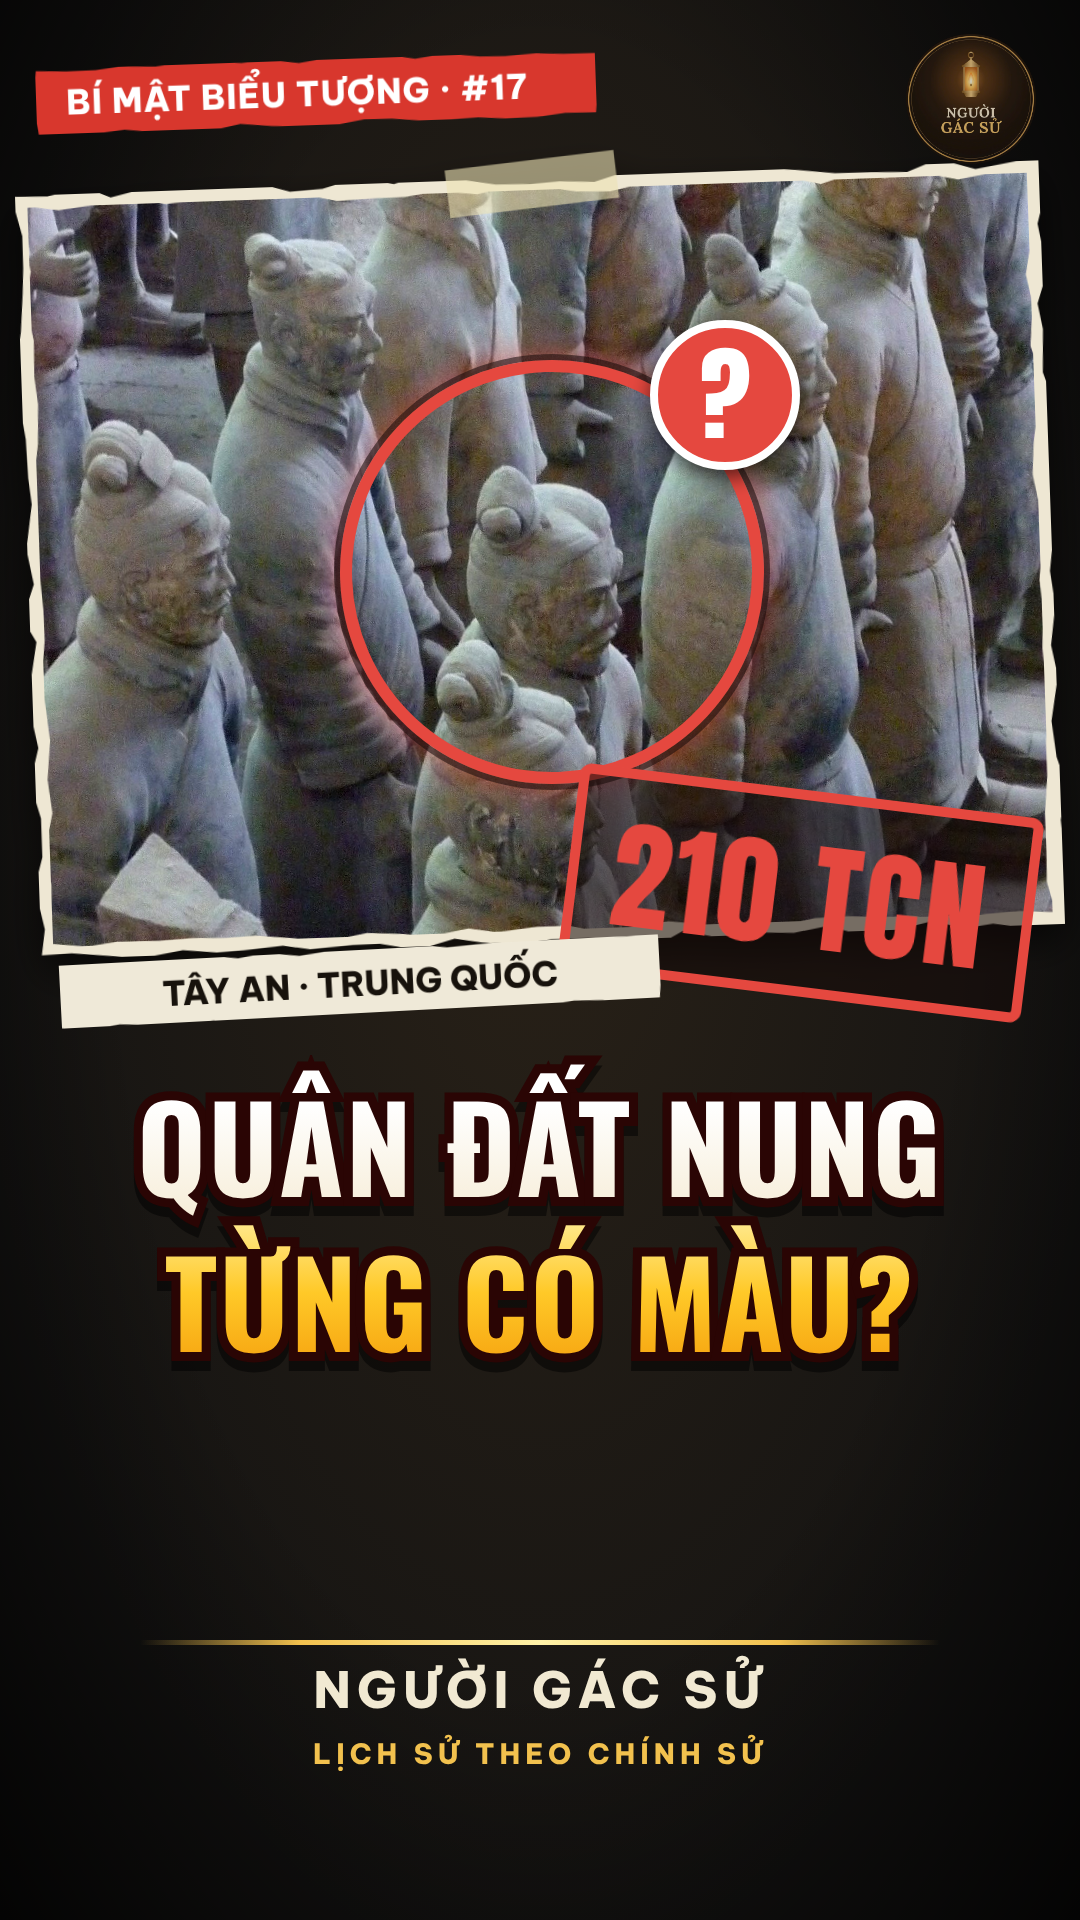
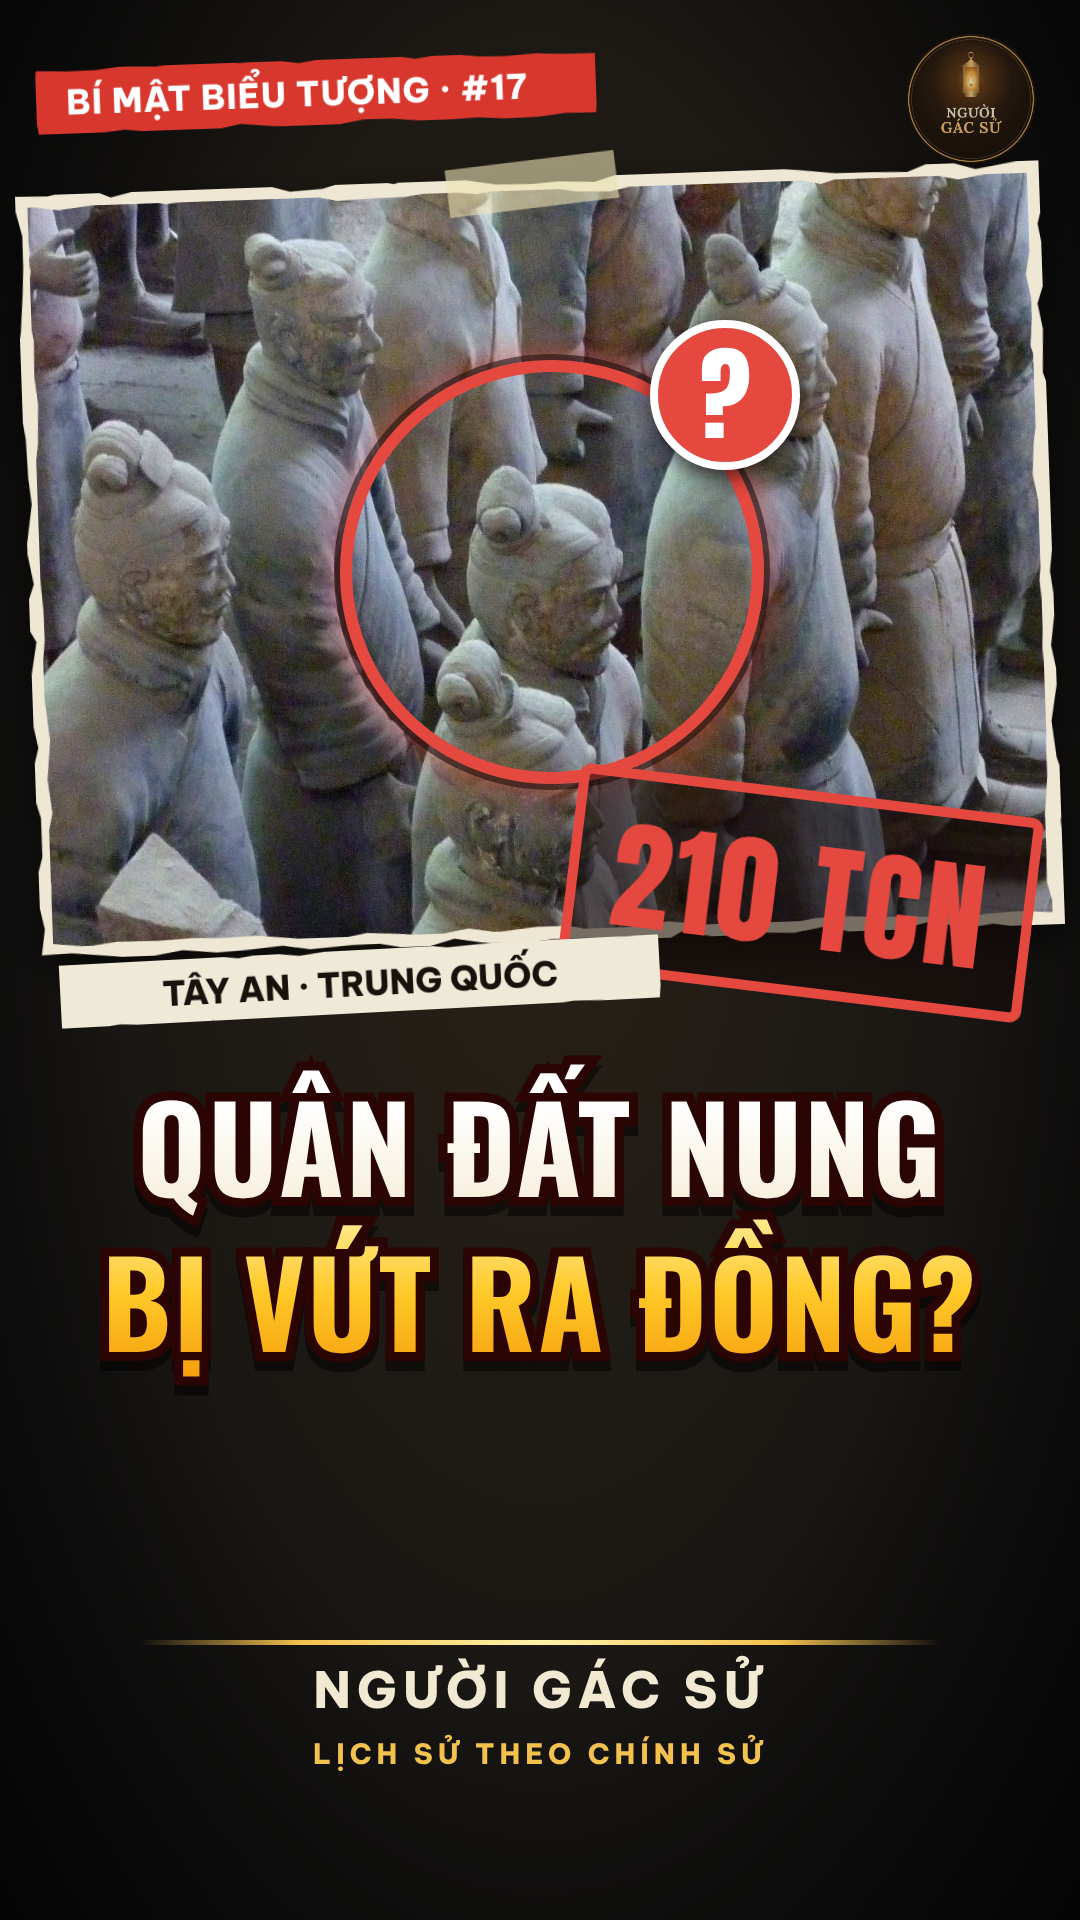
Dựng lại #16–#19: sửa cảnh đứng yên, bìa mới, kiểm video
Claude-Session: https://claude.ai/code/session_01H1Wbxj9sAcUYRQ6Wju6xqR

Changed region(s): [[0.0917, 0.625, 0.3972, 0.7188], [0.5806, 0.625, 0.9167, 0.7188], [0.4278, 0.625, 0.55, 0.7188]]

diff --git a/phim_ban_do/doc9x16/trang_xk9rn.html b/phim_ban_do/doc9x16/trang_xk9rn.html
@@ -188,7 +188,7 @@ PH(8,'p','ef6',940,620,'BẢN DỰNG LẠI PHÒNG LÀM VIỆC CỦA EIFFEL TRÊN
 sx(AT(8,'ăng',4.0),'hammer',{g:.5});
 // 9 Morse từ tháp tới Panthéon
 S2(9,9,'d',t=>'5/11/1898',g=>{const tw=TOWER(g);const dome=el(g,'g',{});el(dome,'path',{d:'M-110 0 A110 110 0 0 1 110 0 Z',fill:'#a89d88',stroke:'#17120c','stroke-width':7});el(dome,'rect',{x:-130,y:0,width:260,height:110,fill:'#8c826f',stroke:'#17120c','stroke-width':7});const ws=WV(g,CGOLD,3);const dots=[...Array(8)].map(()=>el(g,'circle',{r:14,fill:CGOLD,stroke:'#fff','stroke-width':5}));const A=strip2('MORSE: THÁP → ĐỀN PANTHÉON','ok',32,91),B=strip2('CÁCH NHAU KHOẢNG 4 KM','base',36,92);
- return{upd:t=>{const e=popv(t,R(9)+.1,.6);PUT(tw,200,740,e,.7,0);PUT(dome,880,880,e,.9,0);const w=AT(9,'tín',2.6);WVU(ws,t,420,230,540,.6,inn(t,w-.2,.2));dots.forEach((d,i)=>{const u=((t-w-i*.18)*.55);const uu=Math.max(0,Math.min(1,u));d.setAttribute('cx',230+uu*600);d.setAttribute('cy',560+Math.sin(uu*9)*20);d.setAttribute('opacity',(u>0&&u<1)?1:0)});shw(A,t,540,1130,-1,PV(t,9,'tín',2.6));shw(B,t,540,1235,1,PV(t,9,'cách',6.4))}}});
+ return{upd:t=>{const e=popv(t,R(9)+.1,.6);PUT(tw,200,740+Math.sin(t*3)*9,e,.7+Math.sin(t*4)*.025,Math.sin(t*2)*2);PUT(dome,880,880+Math.sin(t*2.2+1)*7,e,.9,Math.sin(t*1.7)*1.2);const w=AT(9,'tín',2.6);WVU(ws,t,420,230,540,.6,.35+.65*inn(t,w-.2,.2));dots.forEach((d,i)=>{const u=((t-w-i*.18)*.55);const uu=Math.max(0,Math.min(1,u));d.setAttribute('cx',230+uu*600);d.setAttribute('cy',560+Math.sin(uu*9)*20);d.setAttribute('opacity',(u>0&&u<1)?1:0)});shw(A,t,540,1130,-1,PV(t,9,'tín',2.6));shw(B,t,540,1235,1,PV(t,9,'cách',6.4))}}});
 sx(AT(9,'tín',2.6),'morse',{pat:'.-.. .-',g:.9});
 // 10 phòng thí nghiệm của Ferrié
 PH(10,'d','ef7',940,580,'SÁCH CỦA EIFFEL VỀ THÍ NGHIỆM DƯỚI CHÂN THÁP',[['ĐẠI ÚY FERRIÉ, 31 TUỔI','ok',34,'Đại',1.4],['LÀM THÍ NGHIỆM TRONG CHÒI NHỎ','base',28,'chòi',7.4]],null,{fx:.5,fy:.5,z:1.6,w:['chòi',7.4],r:180});

diff --git a/phim_ban_do/doc9x16/_body_xk9r.js b/phim_ban_do/doc9x16/_body_xk9r.js
@@ -25,7 +25,7 @@ PH(8,'p','ef6',940,620,'BẢN DỰNG LẠI PHÒNG LÀM VIỆC CỦA EIFFEL TRÊN
 sx(AT(8,'ăng',4.0),'hammer',{g:.5});
 // 9 Morse từ tháp tới Panthéon
 S2(9,9,'d',t=>'5/11/1898',g=>{const tw=TOWER(g);const dome=el(g,'g',{});el(dome,'path',{d:'M-110 0 A110 110 0 0 1 110 0 Z',fill:'#a89d88',stroke:'#17120c','stroke-width':7});el(dome,'rect',{x:-130,y:0,width:260,height:110,fill:'#8c826f',stroke:'#17120c','stroke-width':7});const ws=WV(g,CGOLD,3);const dots=[...Array(8)].map(()=>el(g,'circle',{r:14,fill:CGOLD,stroke:'#fff','stroke-width':5}));const A=strip2('MORSE: THÁP → ĐỀN PANTHÉON','ok',32,91),B=strip2('CÁCH NHAU KHOẢNG 4 KM','base',36,92);
- return{upd:t=>{const e=popv(t,R(9)+.1,.6);PUT(tw,200,740,e,.7,0);PUT(dome,880,880,e,.9,0);const w=AT(9,'tín',2.6);WVU(ws,t,420,230,540,.6,inn(t,w-.2,.2));dots.forEach((d,i)=>{const u=((t-w-i*.18)*.55);const uu=Math.max(0,Math.min(1,u));d.setAttribute('cx',230+uu*600);d.setAttribute('cy',560+Math.sin(uu*9)*20);d.setAttribute('opacity',(u>0&&u<1)?1:0)});shw(A,t,540,1130,-1,PV(t,9,'tín',2.6));shw(B,t,540,1235,1,PV(t,9,'cách',6.4))}}});
+ return{upd:t=>{const e=popv(t,R(9)+.1,.6);PUT(tw,200,740+Math.sin(t*3)*9,e,.7+Math.sin(t*4)*.025,Math.sin(t*2)*2);PUT(dome,880,880+Math.sin(t*2.2+1)*7,e,.9,Math.sin(t*1.7)*1.2);const w=AT(9,'tín',2.6);WVU(ws,t,420,230,540,.6,.35+.65*inn(t,w-.2,.2));dots.forEach((d,i)=>{const u=((t-w-i*.18)*.55);const uu=Math.max(0,Math.min(1,u));d.setAttribute('cx',230+uu*600);d.setAttribute('cy',560+Math.sin(uu*9)*20);d.setAttribute('opacity',(u>0&&u<1)?1:0)});shw(A,t,540,1130,-1,PV(t,9,'tín',2.6));shw(B,t,540,1235,1,PV(t,9,'cách',6.4))}}});
 sx(AT(9,'tín',2.6),'morse',{pat:'.-.. .-',g:.9});
 // 10 phòng thí nghiệm của Ferrié
 PH(10,'d','ef7',940,580,'SÁCH CỦA EIFFEL VỀ THÍ NGHIỆM DƯỚI CHÂN THÁP',[['ĐẠI ÚY FERRIÉ, 31 TUỔI','ok',34,'Đại',1.4],['LÀM THÍ NGHIỆM TRONG CHÒI NHỎ','base',28,'chòi',7.4]],null,{fx:.5,fy:.5,z:1.6,w:['chòi',7.4],r:180});

diff --git a/phim_ban_do/doc9x16/canh_xk9r.js b/phim_ban_do/doc9x16/canh_xk9r.js
@@ -70,7 +70,7 @@ PH(8,'p','ef6',940,620,'BẢN DỰNG LẠI PHÒNG LÀM VIỆC CỦA EIFFEL TRÊN
 sx(AT(8,'ăng',4.0),'hammer',{g:.5});
 // 9 Morse từ tháp tới Panthéon
 S2(9,9,'d',t=>'5/11/1898',g=>{const tw=TOWER(g);const dome=el(g,'g',{});el(dome,'path',{d:'M-110 0 A110 110 0 0 1 110 0 Z',fill:'#a89d88',stroke:'#17120c','stroke-width':7});el(dome,'rect',{x:-130,y:0,width:260,height:110,fill:'#8c826f',stroke:'#17120c','stroke-width':7});const ws=WV(g,CGOLD,3);const dots=[...Array(8)].map(()=>el(g,'circle',{r:14,fill:CGOLD,stroke:'#fff','stroke-width':5}));const A=strip2('MORSE: THÁP → ĐỀN PANTHÉON','ok',32,91),B=strip2('CÁCH NHAU KHOẢNG 4 KM','base',36,92);
- return{upd:t=>{const e=popv(t,R(9)+.1,.6);PUT(tw,200,740,e,.7,0);PUT(dome,880,880,e,.9,0);const w=AT(9,'tín',2.6);WVU(ws,t,420,230,540,.6,inn(t,w-.2,.2));dots.forEach((d,i)=>{const u=((t-w-i*.18)*.55);const uu=Math.max(0,Math.min(1,u));d.setAttribute('cx',230+uu*600);d.setAttribute('cy',560+Math.sin(uu*9)*20);d.setAttribute('opacity',(u>0&&u<1)?1:0)});shw(A,t,540,1130,-1,PV(t,9,'tín',2.6));shw(B,t,540,1235,1,PV(t,9,'cách',6.4))}}});
+ return{upd:t=>{const e=popv(t,R(9)+.1,.6);PUT(tw,200,740+Math.sin(t*3)*9,e,.7+Math.sin(t*4)*.025,Math.sin(t*2)*2);PUT(dome,880,880+Math.sin(t*2.2+1)*7,e,.9,Math.sin(t*1.7)*1.2);const w=AT(9,'tín',2.6);WVU(ws,t,420,230,540,.6,.35+.65*inn(t,w-.2,.2));dots.forEach((d,i)=>{const u=((t-w-i*.18)*.55);const uu=Math.max(0,Math.min(1,u));d.setAttribute('cx',230+uu*600);d.setAttribute('cy',560+Math.sin(uu*9)*20);d.setAttribute('opacity',(u>0&&u<1)?1:0)});shw(A,t,540,1130,-1,PV(t,9,'tín',2.6));shw(B,t,540,1235,1,PV(t,9,'cách',6.4))}}});
 sx(AT(9,'tín',2.6),'morse',{pat:'.-.. .-',g:.9});
 // 10 phòng thí nghiệm của Ferrié
 PH(10,'d','ef7',940,580,'SÁCH CỦA EIFFEL VỀ THÍ NGHIỆM DƯỚI CHÂN THÁP',[['ĐẠI ÚY FERRIÉ, 31 TUỔI','ok',34,'Đại',1.4],['LÀM THÍ NGHIỆM TRONG CHÒI NHỎ','base',28,'chòi',7.4]],null,{fx:.5,fy:.5,z:1.6,w:['chòi',7.4],r:180});

diff --git a/assets/bia/XK/tao_bia.py b/assets/bia/XK/tao_bia.py
@@ -15,9 +15,9 @@ CFG = {
  '7': dict(img='xk7/lb12.jpg', pos='62% 60%', num='#15', stamp='1902', tag='HÀ NỘI · SÔNG HỒNG', l1='CẦU LONG BIÊN', l2='EIFFEL CÓ KÝ TÊN?', chu_the='cầu Long Biên', hook=dict(cx=610, cy=590, r=190, q='?')),
  '8': dict(img='xk8/ha7.jpg', pos='50% 50%', num='#13', stamp='1719', tag='CHÙA CẦU · HỘI AN', l1='CẦU MÀ GỌI LÀ', l2='CHÙA CẦU?', chu_the='chùa Cầu Hội An', hook=dict(cx=540, cy=560, r=170, q='?')),
  '9': dict(img='xk9/ef1.jpg', pos='50% 35%', num='#16', stamp='1889', tag='PARIS · THÁP EIFFEL', l1='THÁP EIFFEL', l2='CHỈ ĐỨNG 20 NĂM?', chu_the='tháp Eiffel', hook=dict(cx=540, cy=470, r=180, q='?')),
- '10': dict(img='xk10/tc2.jpg', pos='50% 40%', num='#17', stamp='210 TCN', tag='TÂY AN · TRUNG QUỐC', l1='QUÂN ĐẤT NUNG', l2='TỪNG CÓ MÀU?', chu_the='tượng lính đất nung', hook=dict(cx=540, cy=560, r=200, q='?')),
- '11': dict(img='xk11/cc1.jpg', pos='35% 50%', num='#18', stamp='1812', tag='HÀ NỘI · THÀNH CỔ', l1='CỘT CỜ HÀ NỘI', l2='VÌ SAO CÒN ĐỨNG?', chu_the='cột cờ Hà Nội', hook=dict(cx=300, cy=440, r=170, q='?')),
- '12': dict(img='xk12/mc1.jpg', pos='45% 50%', num='#19', stamp='1954', tag='HÀ NỘI · CHÙA MỘT CỘT', l1='CHÙA MỘT CỘT', l2='BỊ ĐẶT THUỐC NỔ?', chu_the='chùa Một Cột', hook=dict(cx=540, cy=560, r=190, q='?')),
+ '10': dict(img='xk10/tc2.jpg', pos='50% 40%', num='#17', stamp='210 TCN', tag='TÂY AN · TRUNG QUỐC', l1='QUÂN ĐẤT NUNG', l2='BỊ VỨT RA ĐỒNG?', chu_the='tượng lính đất nung', hook=dict(cx=540, cy=560, r=200, q='?')),
+ '11': dict(img='xk11/cc1.jpg', pos='35% 50%', num='#18', stamp='1812', tag='HÀ NỘI · THÀNH CỔ', l1='CỘT CỜ HÀ NỘI', l2='CỜ BỊ GIÓ XÉ?', chu_the='cột cờ Hà Nội', hook=dict(cx=300, cy=440, r=170, q='?')),
+ '12': dict(img='xk12/mc1.jpg', pos='45% 50%', num='#19', stamp='1954', tag='HÀ NỘI · CHÙA MỘT CỘT', l1='CHÙA MỘT CỘT', l2='TỪNG BỊ NỔ TUNG?', chu_the='chùa Một Cột', hook=dict(cx=540, cy=560, r=190, q='?')),
 }[K]
 def fs(t): return round(118*min(1, 16/len(t)))
 out = sys.argv[2] if len(sys.argv) > 2 else str(Path(__file__).with_name(f'bia_xk{K}.png'))

diff --git a/logs/kiem_video/xk10r.md b/logs/kiem_video/xk10r.md
@@ -1,0 +1,9 @@
+# Kiểm video xk10r
+
+- Kịch bản 14 câu; có nhận dạng 14 câu; nhận dạng: asr_xk10r.json
+- ❌ lỗi: 0  ⚠ cảnh báo: 1
+
+## ❌ Lỗi
+
+## ⚠ Cảnh báo
+- Video dài 1.6 phút, dưới mức sàn 10 phút của video dài

diff --git a/logs/kiem_video/xk11r.md b/logs/kiem_video/xk11r.md
@@ -1,0 +1,9 @@
+# Kiểm video xk11r
+
+- Kịch bản 12 câu; có nhận dạng 12 câu; nhận dạng: asr_xk11r.json
+- ❌ lỗi: 0  ⚠ cảnh báo: 1
+
+## ❌ Lỗi
+
+## ⚠ Cảnh báo
+- Video dài 1.3 phút, dưới mức sàn 10 phút của video dài

diff --git a/logs/kiem_video/xk12r.md b/logs/kiem_video/xk12r.md
@@ -1,0 +1,9 @@
+# Kiểm video xk12r
+
+- Kịch bản 12 câu; có nhận dạng 12 câu; nhận dạng: asr_xk12r.json
+- ❌ lỗi: 0  ⚠ cảnh báo: 1
+
+## ❌ Lỗi
+
+## ⚠ Cảnh báo
+- Video dài 1.3 phút, dưới mức sàn 10 phút của video dài
